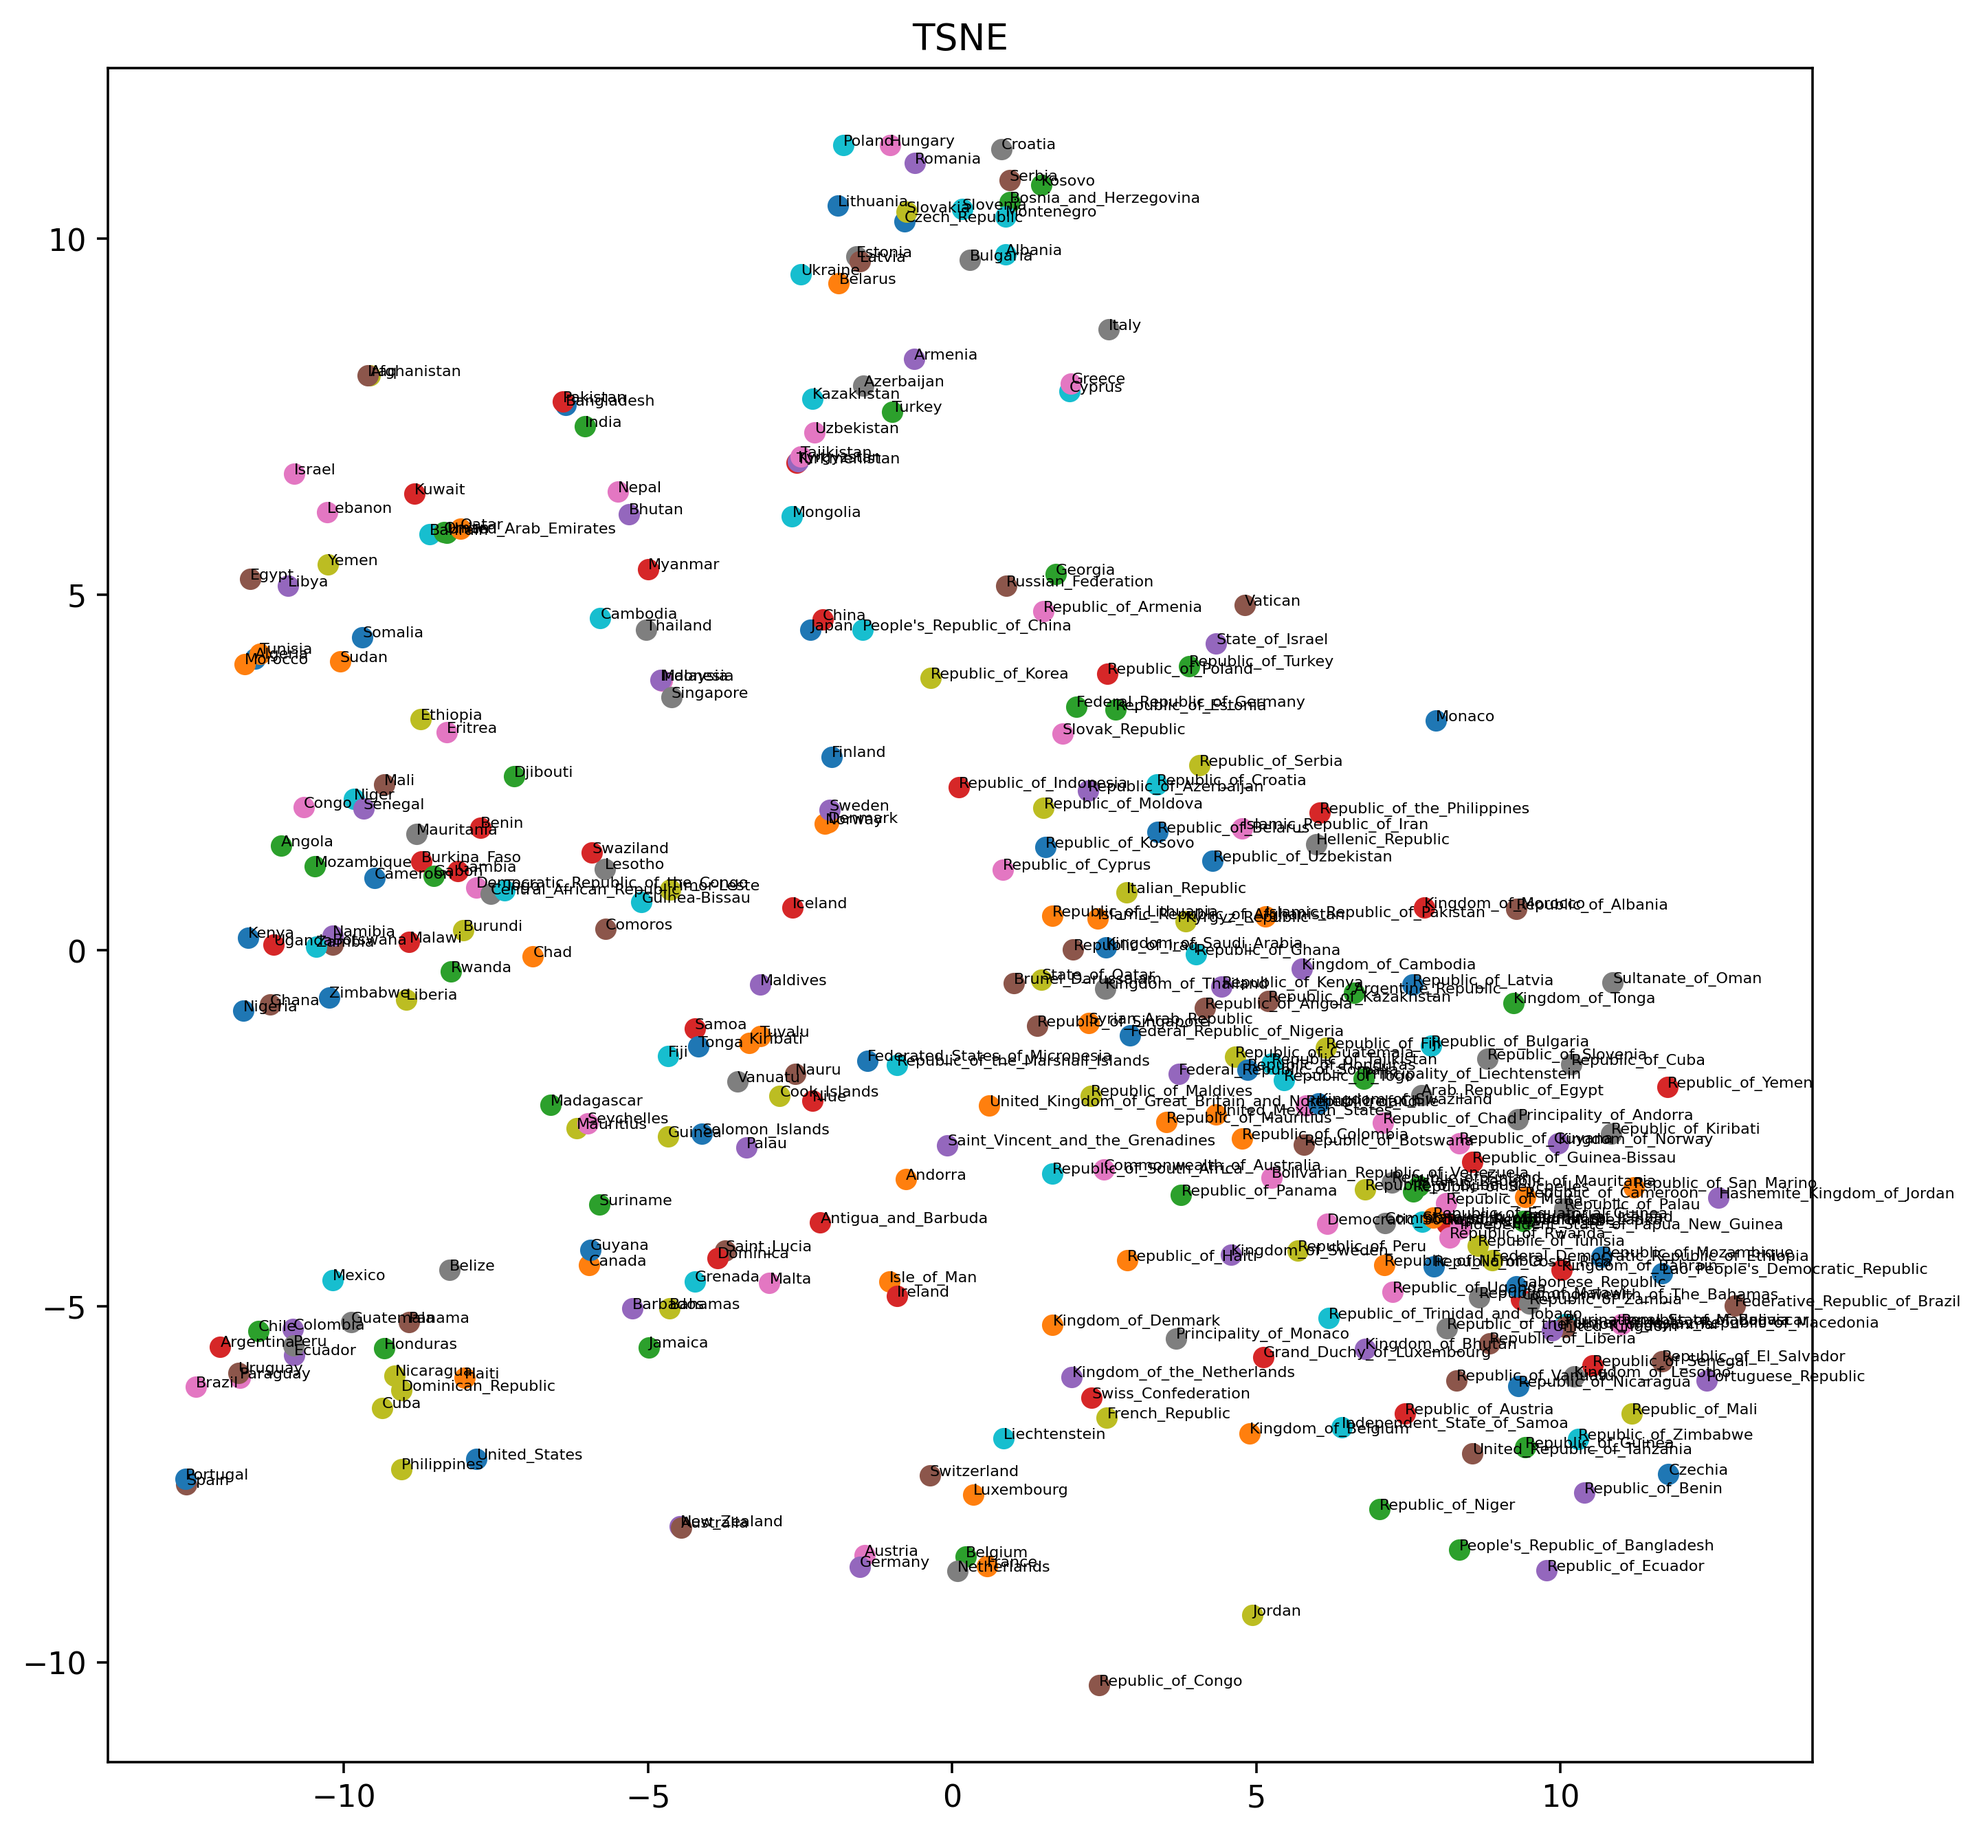
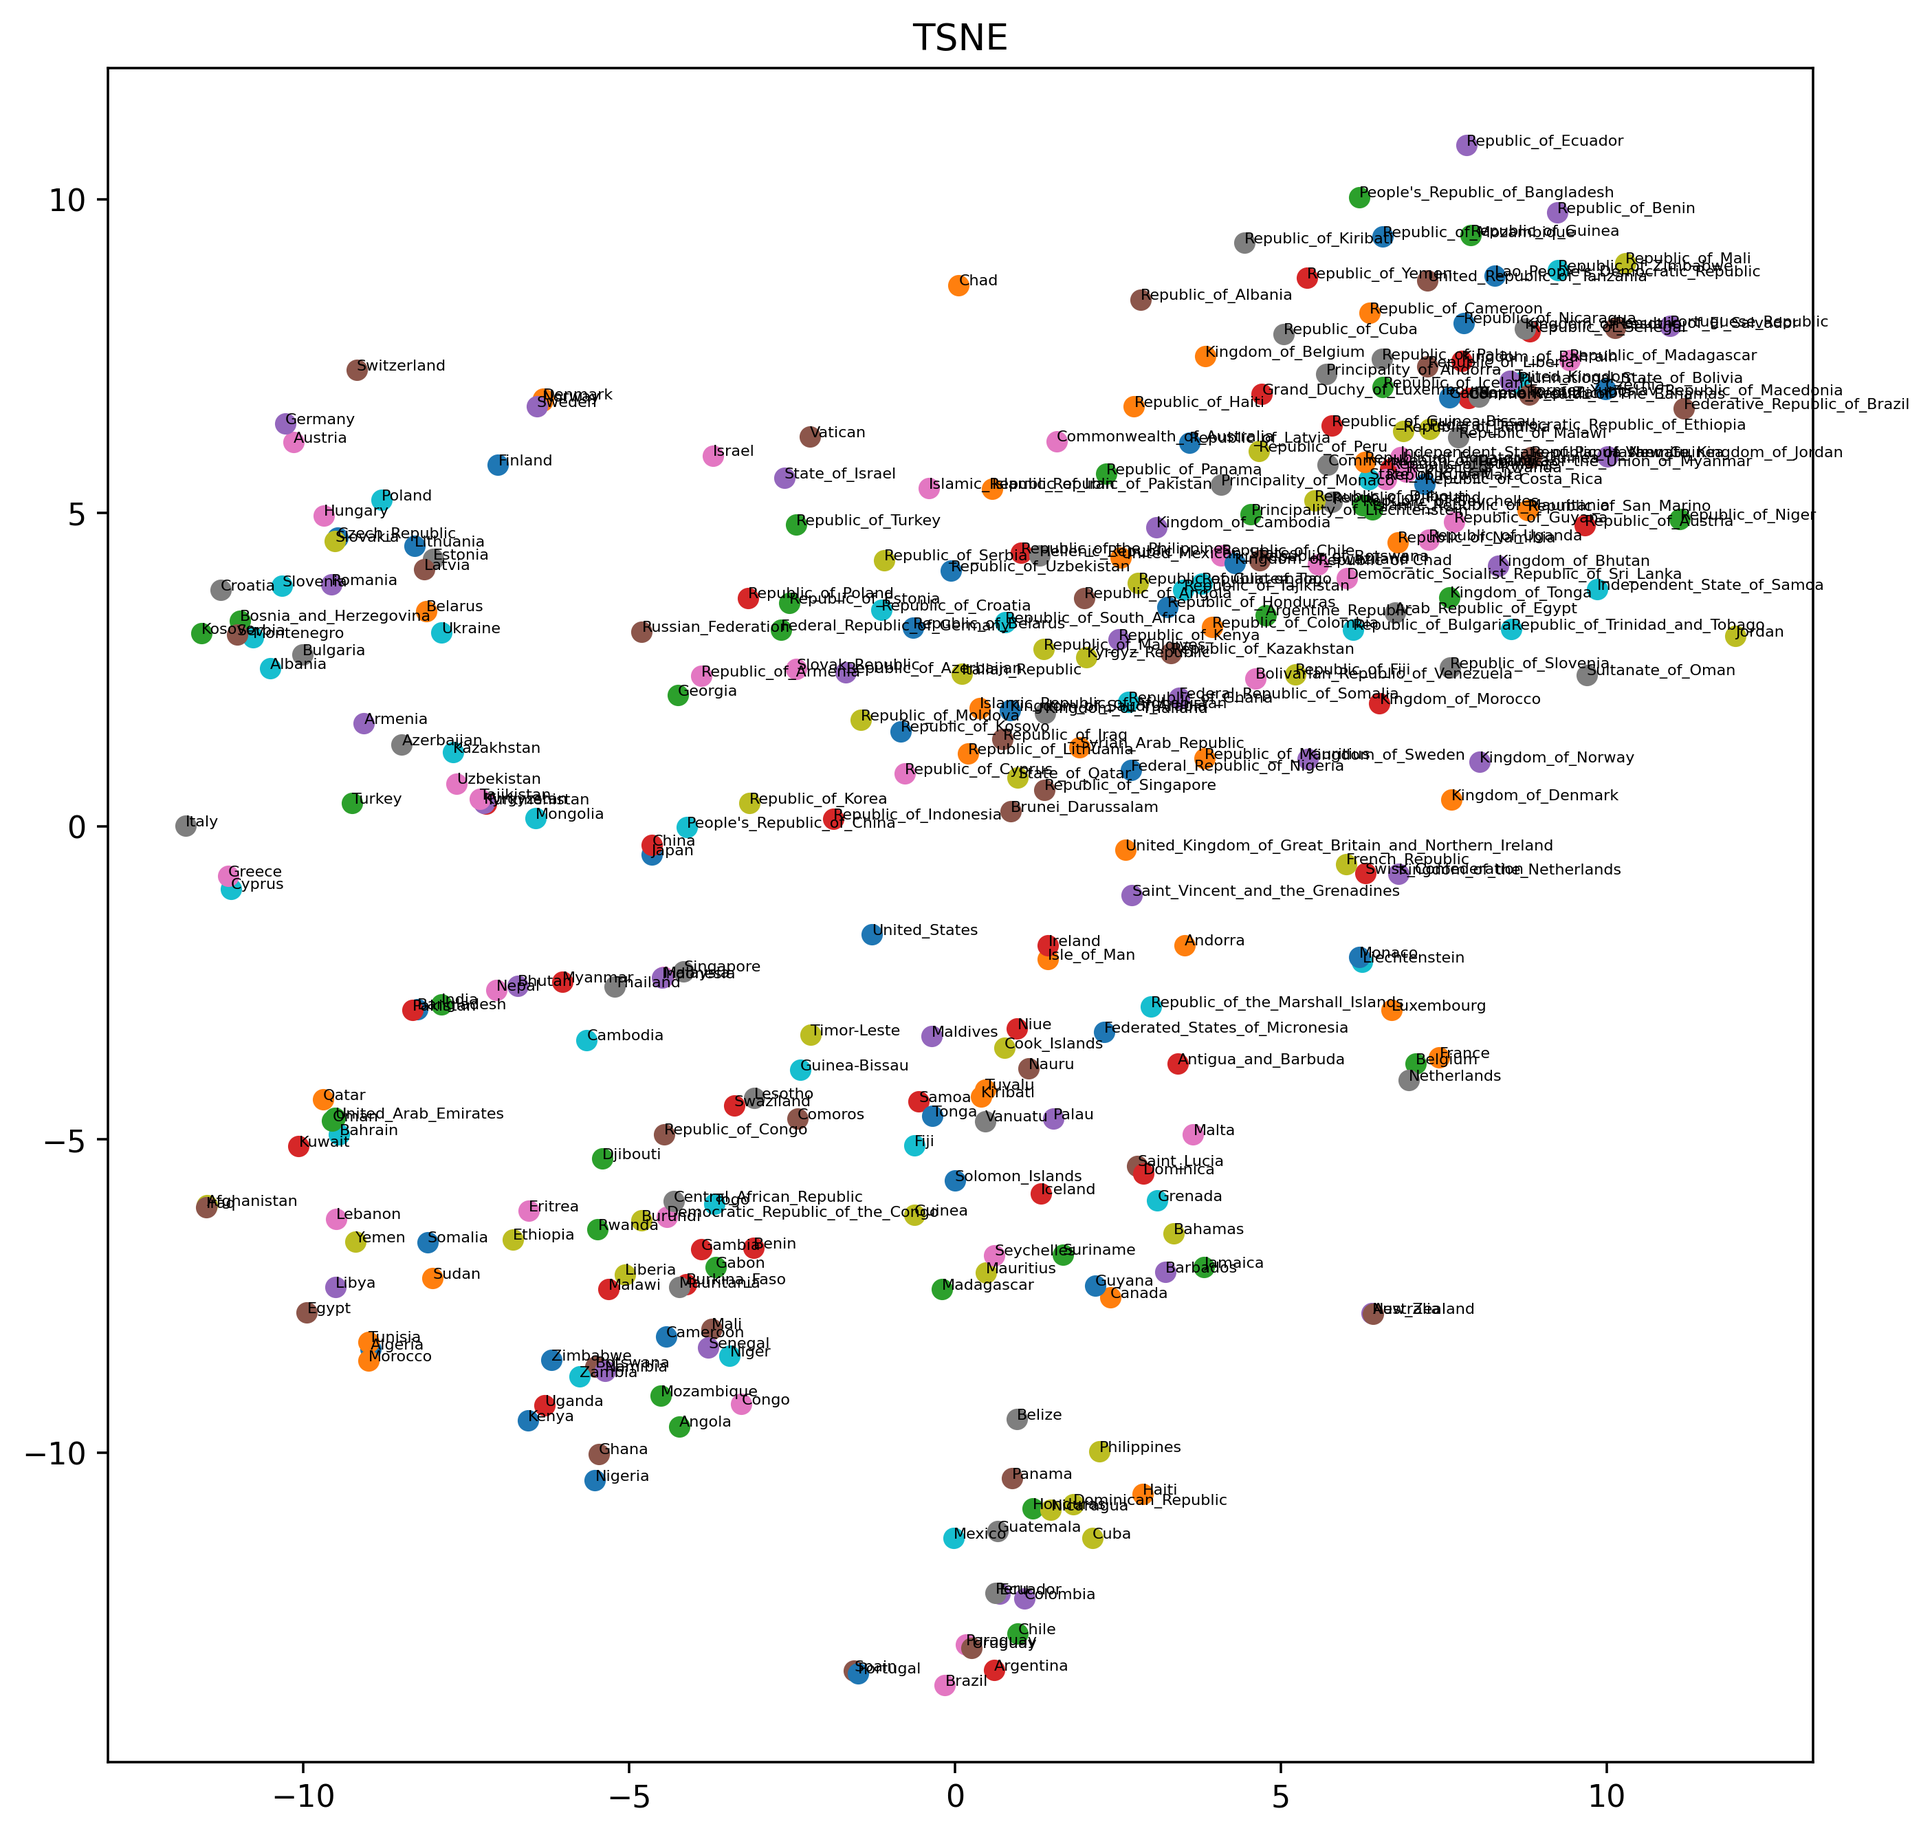
change99

diff --git a/chapter10/99.py b/chapter10/99.py
@@ -15,7 +15,7 @@ def _99():
             matries = np.vstack([matries, matrix])
             countries.append(word)
 
-        t_sne = TSNE(perplexity=30, learning_rate=500).fit_transform(matries)
+        t_sne = TSNE().fit_transform(matries)
 
         fig, ax = plt.subplots(figsize=(10,10))
         ax.set_title('TSNE')
